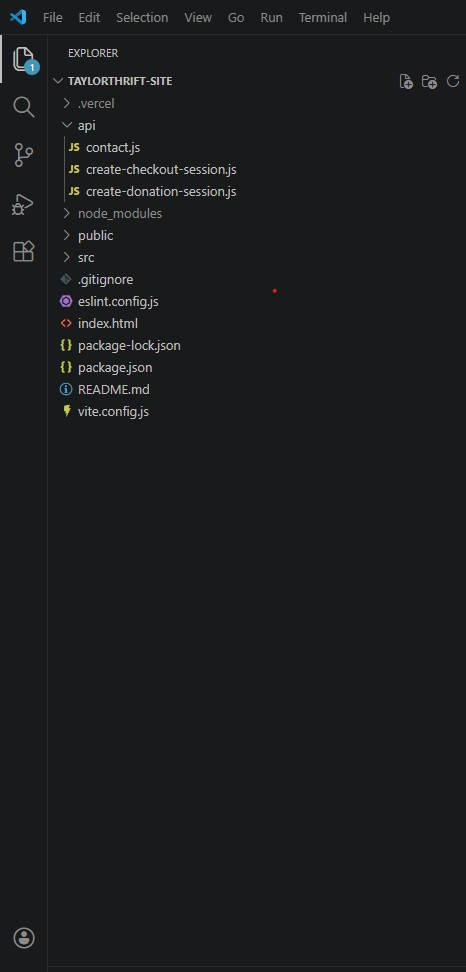
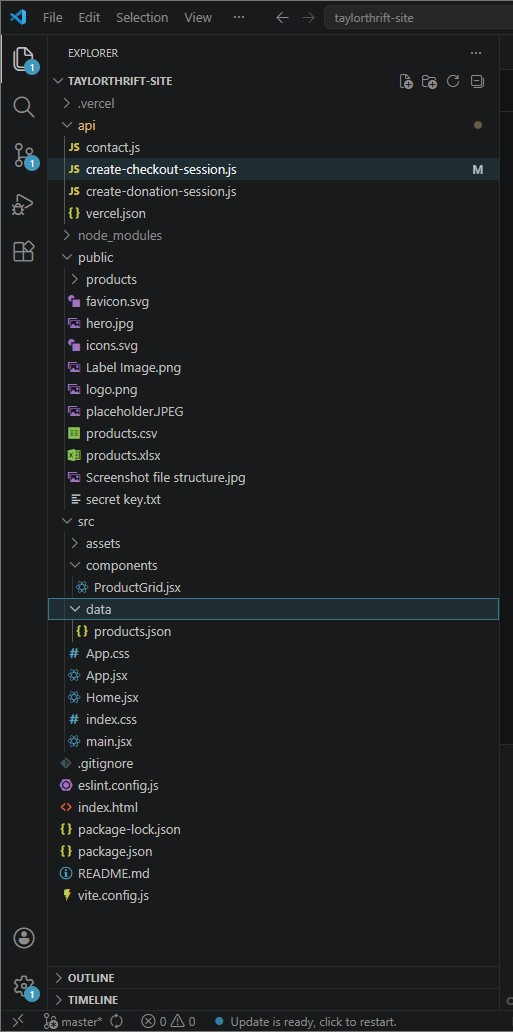
fix stripe payload

diff --git a/api/create-checkout-session.js b/api/create-checkout-session.js
@@ -1,3 +1,38 @@
-export default function handler(req, res) {
-  return res.status(200).json({ message: "API is alive" });
-}
+const Stripe = require("stripe");
+
+module.exports = async function handler(req, res) {
+  if (req.method !== "POST") {
+    return res.status(405).send("Method Not Allowed");
+  }
+
+  try {
+    const stripe = new Stripe(process.env.STRIPE_SECRET_KEY);
+
+    const { product } = JSON.parse(req.body);
+
+    const session = await stripe.checkout.sessions.create({
+      payment_method_types: ["card"],
+      mode: "payment",
+      line_items: [
+        {
+          price_data: {
+            currency: "gbp",
+            product_data: {
+              name: product.title,
+            },
+            unit_amount: Math.round(product.price * 100),
+          },
+          quantity: 1,
+        },
+      ],
+      success_url: `${req.headers.origin}/success`,
+      cancel_url: `${req.headers.origin}/cancel`,
+    });
+
+    return res.status(200).json({ url: session.url });
+
+  } catch (err) {
+    console.error("STRIPE ERROR:", err);
+    return res.status(500).json({ error: err.message });
+  }
+};

diff --git a/src/App.jsx b/src/App.jsx
@@ -485,7 +485,7 @@ function ProductPage({ products }) {
           style={mainImageStyle}
           onError={(e) => {
   e.target.onerror = null; // 🔥 stops loop
-  e.target.src = "/placeholder.JPEG";
+  e.target.src = "/placeholder.jpg";
 }}
         />
 
@@ -522,8 +522,11 @@ function ProductPage({ products }) {
           "Content-Type": "application/json",
         },
         body: JSON.stringify({
-          cart: [product],
-        }),
+  product: {
+    title: product.name,
+    price: Number(product.price),
+  },
+}),
       });
 
       const data = await res.json();
